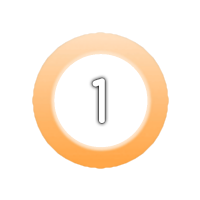
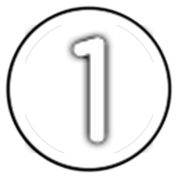
.

diff --git a/main2.py b/main2.py
@@ -28,9 +28,9 @@ if override == 'y':
                 lines[i] = 'HitCircleOverlap: 128\n'
             with open ("skin.ini", "w") as s:
                 s.writelines(lines)
-        
 else:
     pass
+
 if twox == 'y':
 
     for default in defaults2x:
@@ -69,9 +69,10 @@ if twox == 'y':
 else:
     for default in defaults:
         default = Image.open(default, 'r')
+        default = default.resize((128, 128), Image.ANTIALIAS)
         default_w, default_h = default.size
 
-        resizer = Image.new('RGBA', (128, 128), (255, 255, 255, 0))
+        resizer = Image.new('RGBA', (178, 178), (255, 255, 255, 0))
         re_w, re_h = resizer.size
 
         offset = ((re_w - default_w) // 2, (re_h - default_h) // 2)
@@ -80,7 +81,9 @@ else:
         dimw, dimh = resizer.size
 
         hs = Image.open('hitcircle.png', 'r')
+        hs = hs.resize((178, 178), Image.ANTIALIAS)
         hso = Image.open('hitcircleoverlay.png', 'r')
+        hso = hso.resize((178, 178), Image.ANTIALIAS)
 
         hsoffset = ((dimw - re_w) // 2, (re_h - dimw) // 2)
         resizer.paste(hs, hsoffset, hs)
